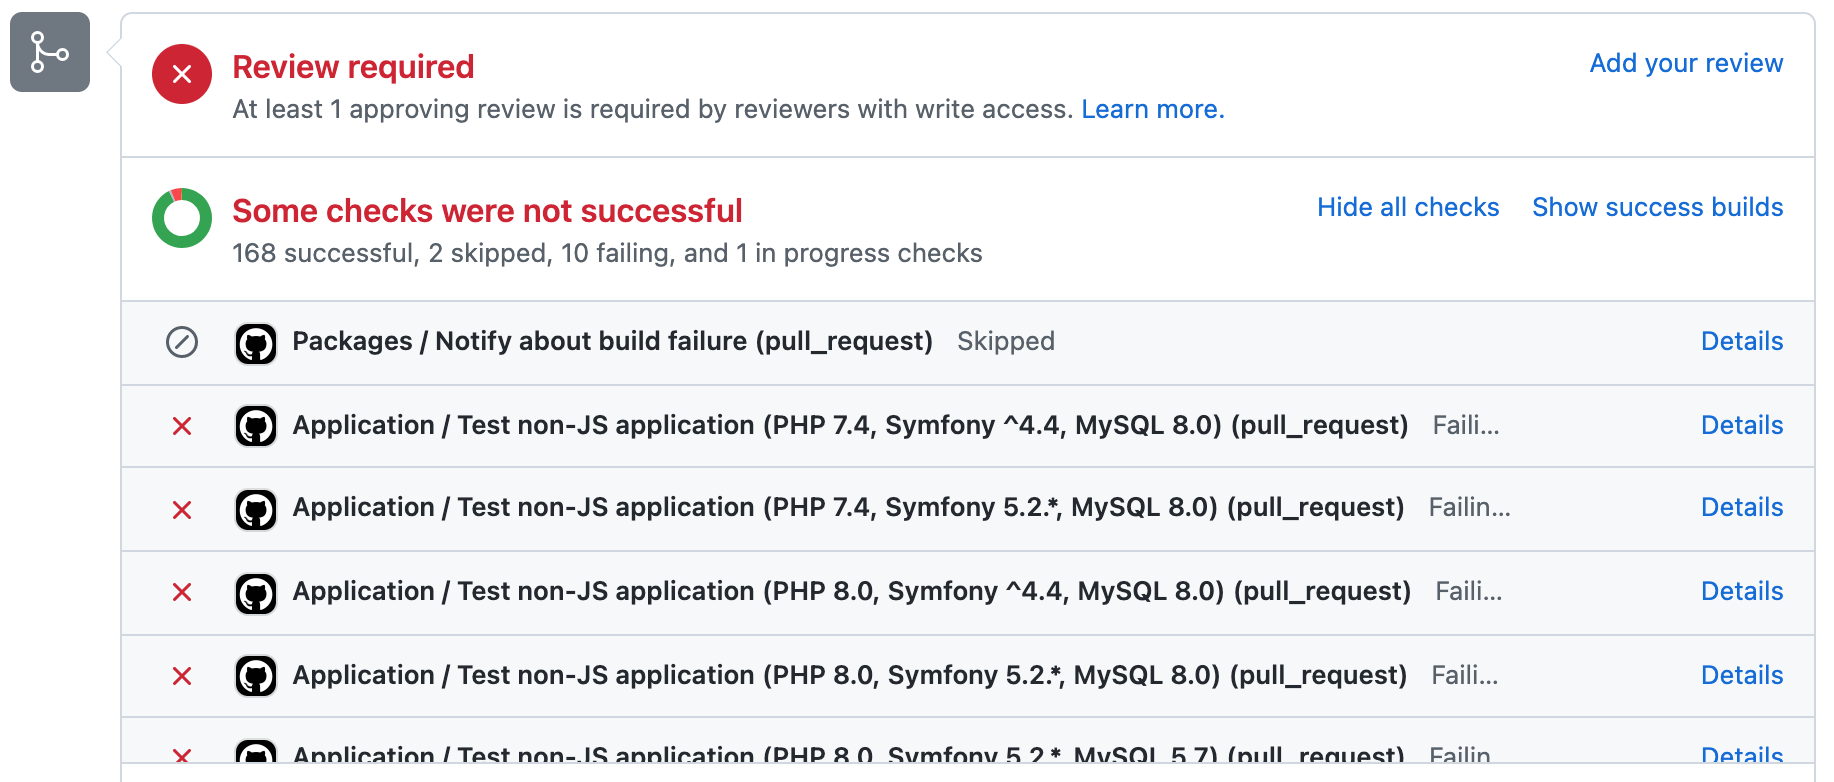
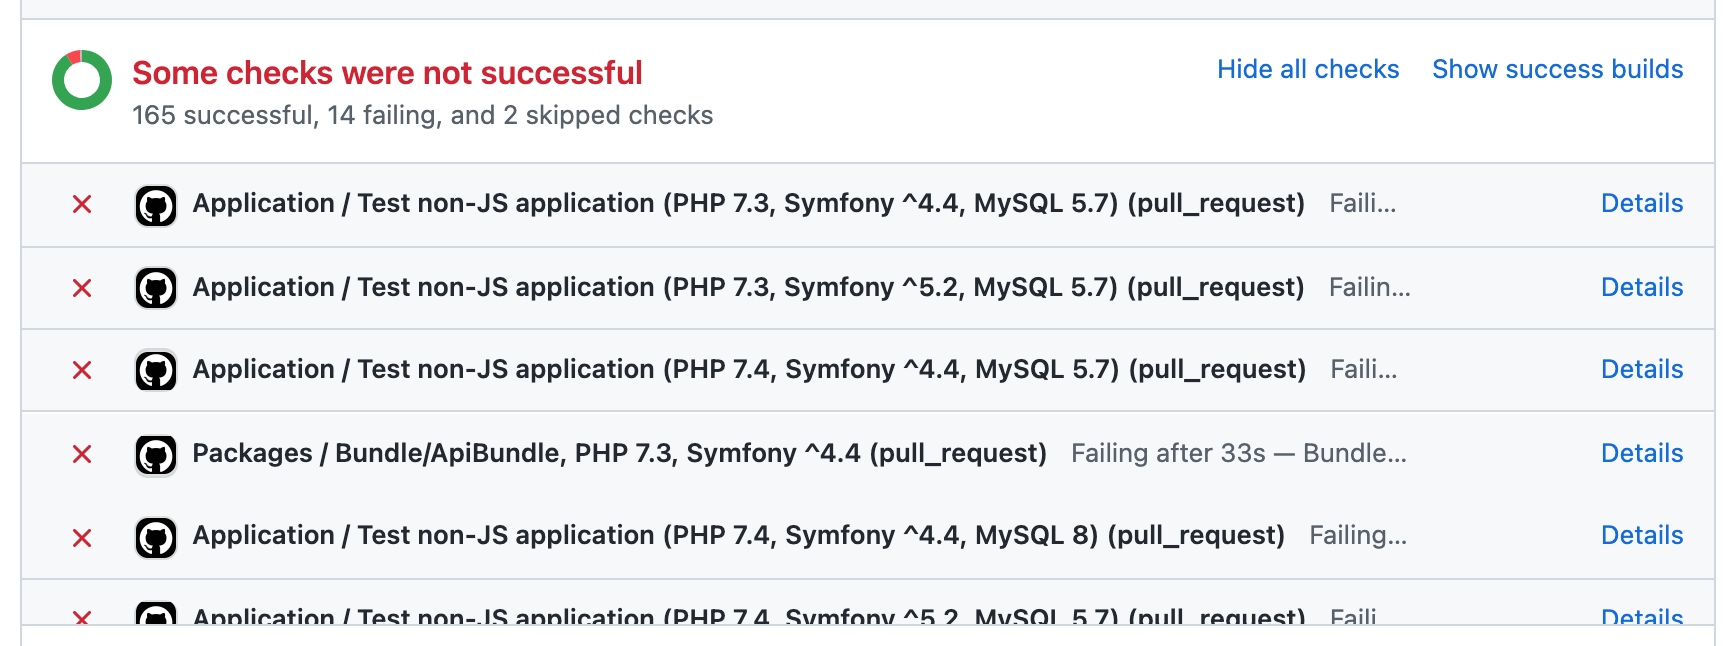
React on "Hide/show all checks" button

diff --git a/toggleSuccessBuilds.js b/toggleSuccessBuilds.js
@@ -8,6 +8,13 @@ function addToggleSuccessBuildButton() {
     toggleSuccessBuildsButton.addEventListener('click', toggleSuccessBuildsButtonClickCallback)
 
     hideAllChecksButton.parentNode.insertBefore(toggleSuccessBuildsButton, hideAllChecksButton);
+    hideAllChecksButton.addEventListener('click', function(event) {
+        if (event.target.innerText === 'Hide all checks') {
+            toggleSuccessBuildsButton.hidden = true;
+        } else {
+            toggleSuccessBuildsButton.hidden = false;
+        }
+    });
 }
 
 function toggleSuccessBuildsButtonClickCallback(evt) {

diff --git a/README.md b/README.md
@@ -13,3 +13,7 @@ Handy, if you have tens/hundreds of builds and cannot determine which failed at 
 #### Hidden
 
 ![](images/hidden.png)
+
+#### Hidden (all)
+
+![](images/hidden-all.png)
